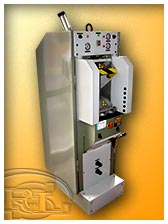
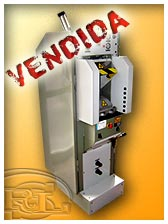
Sold: Pegar Casco ACTUALITY SYSTEM. Some minor tweaks

Changed region(s): [[0.0, 0.0, 0.8036, 0.4062]]

diff --git a/maquinas/montar/maqUs_montar-talones-hidraulica_CERIM_CK-23.htm b/maquinas/montar/maqUs_montar-talones-hidraulica_CERIM_CK-23.htm
@@ -3,7 +3,7 @@
 
 <head>
 <meta http-equiv="Content-Type" content="text/html; charset=utf-8" />
-<title>RaLoS, Maquinaria USADA para Calzado | Máquina Hidráulica de Montar Talones (con Clavo) CERIM 'CK-23'</title>
+<title>RaLoS, Maquinaria USADA para Calzado | Máquina de Montar Talones Hidráulica (con Clavo) CERIM 'CK-23'</title>
 <meta name="keywords" content="cerim, cerim ck-23, cerim ck23, montar cerim, montar talones, montar talon, montar talones cerim, montar talones hidraulica, talones hidraulica, maquina talones, maquina montar talones, talones calzado, talones zapato, montar talones ocasion, montar talones usada, montar talones segunda mano, montar talones calzado, montar talones zapato, maquinaria usada zapatos, maquinas usadas zapatos, segunda mano, ocasion, ralos, Elda, Alicante" />
 
 <meta name="description" content="RaLoS, Maquinaria USADA para Calzado - Máquina Hidráulica de OCASIÓN para Montar los Talones del Zapato CERIM 'CK-23'" />
@@ -89,7 +89,7 @@ counter++;
   	<!--<div id="mainLogoBg"></div>-->
   	<div class="divider1"></div>
 
-		<h1 style="text-decoration: none; margin-bottom: 0px">RaLoS, MAQUINARIA USADA: Máquina Hidráulica de Montar Talones (con Clavo) CERIM &quot;CK&#8209;23&quot;</h1>
+		<h1 style="text-decoration: none; margin-bottom: 0px">RaLoS, MAQUINARIA USADA: Máquina de Montar Talones Hidráulica (con Clavo) CERIM &quot;CK&#8209;23&quot;</h1>
     <div class="divider2"></div>
     <div id="productContainer">
 			<ul>       
@@ -138,7 +138,7 @@ counter++;
           <th colspan="4" bgcolor="#FFFFFF"><h4>DESCRIPCIÓN DE LA MÁQUINA</h4></th>
         </tr>
         <tr>
-       		<td colspan="4"><p><span class="boldText">RaLoS</span> dispone de una máquina de montar talones con clavo <span class="boldText">CERIM &quot;CK&#8209;23&quot;</span>; de segunda mano, totalmente restaurada y lista para trabajar.</p>
+       		<td colspan="4"><p><span class="boldText">RaLoS</span> dispone de una máquina de montar talones  con clavo hidraúlica <span class="boldText">CERIM &quot;CK&#8209;23&quot;</span>; de segunda mano, totalmente restaurada y lista para trabajar.</p>
      		  <p>La <span class="boldText">CERIM &quot;CK&#8209;23&quot;</span> permite, mediante su funcionamiento totalmente hidráulico, llevar a cabo el montaje de talones con clavo de forma rápida, silenciosa y extremadamente sencilla. El cambio de trabajo se realiza también de forma rápida, pues cuenta con un práctico sistema de regulación que dota a la máquina de la versatilidad necesaria para satisfacer todo tipo de exigencias.</p>
           </td>
         </tr>
@@ -146,7 +146,7 @@ counter++;
           <th colspan="4"><h4>CARACTERÍSTICAS TÉCNICAS</h4></th>
         </tr>
         <tr>
-          <td width="50%" colspan="2"><span class="boldText">Conex. Eléctrica: </span>380 V</td>
+          <td width="50%" colspan="2"><span class="boldText">Conex. Eléctrica: </span>380 V - 50 Hz</td>
           <td width="50%" colspan="2"><span class="boldText">Dimens. (An./Al./Pr.):</span> ... x ... x ... cm</td>
         </tr>
         <tr>
@@ -178,10 +178,10 @@ counter++;
         </tr>
 
         <tr id="rowInfo">
-          <td width="25%"><a href="http://www.ralosmaquinaria.com/mainFrameContact.htm?Disponibilidad maquina+Hidraulica+de+Montar+Talones+(con+Clavo)&'CERIM+CK-23'&(OCASION)#formContainer" title="Ir al Formulario de Consulta" target="_self" class="boldText">Consultar</a></td>
+          <td width="25%"><a href="http://www.ralosmaquinaria.com/mainFrameContact.htm?Disponibilidad maquina+de+Montar+Talones+Hidraulica+(con+Clavo)&'CERIM+CK-23'&(OCASION)#formContainer" title="Ir al Formulario de Consulta" target="_self" class="boldText">Consultar</a></td>
           <td width="50%" colspan="2">Restaurada</td>
         <!--<td width="50%" colspan="2">Máquina revisada en nuestro taller.</td>-->
-          <td width="25%"><a href="http://www.ralosmaquinaria.com/mainFrameContact.htm?Maquina+Hidraulica+de+Montar+Talones+(con+Clavo)&'CERIM+CK-23'&(OCASION)#formContainer" title="Ir al Formulario de Consulta" target="_self" class="boldText">Consultar</a></td>
+          <td width="25%"><a href="http://www.ralosmaquinaria.com/mainFrameContact.htm?Maquina+de+Montar+Talones+Hidraulica+(con+Clavo)&'CERIM+CK-23'&(OCASION)#formContainer" title="Ir al Formulario de Consulta" target="_self" class="boldText">Consultar</a></td>
         </tr>
       </table>
 	</div><!--end productDescription-->

diff --git a/index.htm b/index.htm
@@ -608,15 +608,6 @@ div .mainFooterContent {
         </li>-->
 
         <li>
-					<div class="liContainer"><a href="maquinas/pegar/maqUs_pegarCascoDobleMembrana_ActualitySystem.htm" target="mainFrame" title="Ver Máquina de Pegar Casco/Suelas &quot;ACTUALITY SYSTEM&quot;">
-            <img class="outerImg" alt="" src="images/_mac_vOuterFrame_mTn.png"/>
-            <img class="vInnerImg" alt="Máquina de Pegar Casco/Suelas &quot;ACTUALITY SYSTEM&quot;" src="maquinas/pegar/maqUs_pegarCascoDobleMembrana_ActualitySystem_01mTn.jpg"/>
-            <img class="spanPosFix" alt="" src="images/_mac_vOuterFrameFix_mTn.gif"/>
-            <span>Pegar Casco/Suelas &quot;ACTUALITY&nbsp;SYSTEM&quot;</span></a>
-					</div>
-        </li>
-
-        <li>
 					<div class="liContainer"><a href="maquinas/pegar/maqUs_pegar-casco-doble-membrana_BAVA_2012.htm" target="mainFrame" title="Ver Máquina de Pegar Casco/Suelas con Doble Membrana &quot;BAVA 2012&quot;">
             <img class="outerImg" alt="" src="images/_mac_vOuterFrame_mTn.png"/>
             <img class="vInnerImg" alt="Máquina de Pegar Casco/Suelas con Doble Membrana &quot;BAVA 2012&quot;" src="maquinas/pegar/maqUs_pegar-casco-doble-membrana_BAVA_2012_1m-v.jpg"/>

diff --git a/maquinas/pegar/maqUs_pegarCascoDobleMembrana_ActualitySystem.htm b/maquinas/pegar/maqUs_pegarCascoDobleMembrana_ActualitySystem.htm
@@ -89,7 +89,7 @@ counter++;
   	<!--<div id="mainLogoBg"></div>-->
   	<div class="divider1"></div>
 
-		<h1 style="text-decoration: none; margin-bottom: 0px">RaLoS, MAQUINARIA USADA: Máquina de Pegar Casco con Doble Membrana &quot;ACTUALITY&nbsp;SYSTEM&quot;</h1>
+		<h1 style="text-decoration: none; margin-bottom: 0px">RaLoS, MAQUINARIA USADA: Máquina de Pegar Casco con Doble Membrana &quot;ACTUALITY&nbsp;SYSTEM&quot;&nbsp;(VENDIDA)</h1>
   <div class="divider2"></div>
     <div id="productContainer">
 			<ul>       
@@ -185,7 +185,7 @@ counter++;
         </tr>
 
         <tr id="rowInfo">
-          <td width="25%" class="boldText">Disponible</td>
+          <td width="25%" class="boldText">No disponible</td>
           <td width="50%" colspan="2">Restaurada</td>
         <!--<td width="50%" colspan="2">Máquina revisada en nuestro taller.</td>-->
           <td width="25%"><a href="http://www.ralosmaquinaria.com/mainFrameContact.htm?Maquina+de+Pegar+Casco+con+Doble+Membrana&'ACTUALITY+SYSTEM'&(OCASION)#formContainer" title="Ir al Formulario de Consulta" target="_self" class="boldText">Consultar</a></td>

diff --git a/maquinas/moldear/maqUs_moldear-palas-de-bota_TRAP_T-30-B.htm b/maquinas/moldear/maqUs_moldear-palas-de-bota_TRAP_T-30-B.htm
@@ -136,11 +136,11 @@ counter++;
         </tr>
         <tr>
           <td width="50%" colspan="2"><span class="boldText">Conex. Eléctrica: </span>220 V - 50 Hz</td>
-          <td width="50%" colspan="2"><span class="boldText">Dimens. (An./Al./Pr.):</span> 65 x 142 x 86 cm</td>
+          <td width="50%" colspan="2"><span class="boldText">Dimens. (An./Al./Pr.):</span> 65 x 142 x 80 cm</td>
         </tr>
         <tr>
           <td width="50%" colspan="2"><span class="boldText">Potencia Instalada:</span> N/D</td>
-          <td width="50%" colspan="2"><span class="boldText">Peso (Neto):</span> N/D</td>
+          <td width="50%" colspan="2"><span class="boldText">Peso Neto:</span> 310 kg</td>
         </tr>
         <tr>
           <td width="50%" colspan="2"><span class="boldText">Presión de Trabajo: </span>6/8 Kg/cm<sup>2</sup></td>
